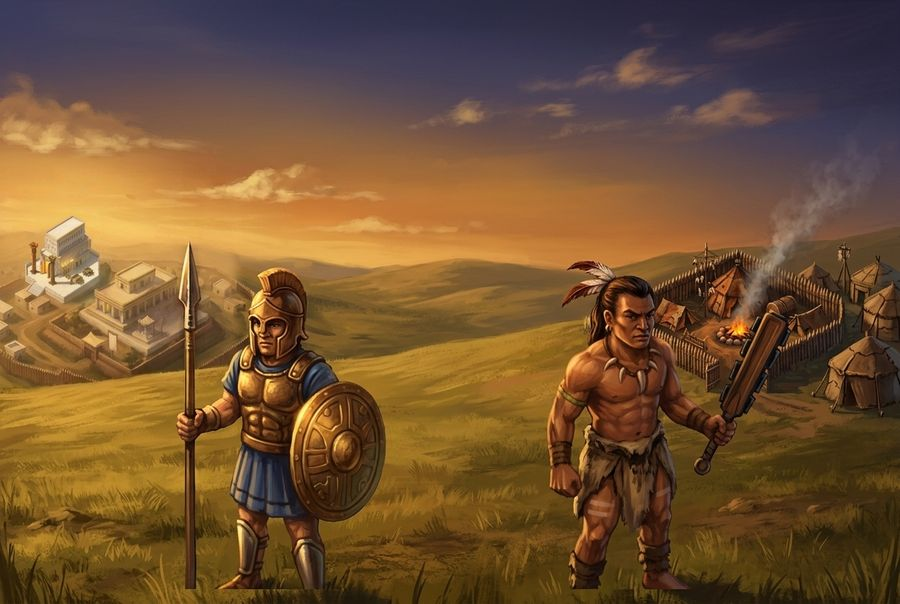
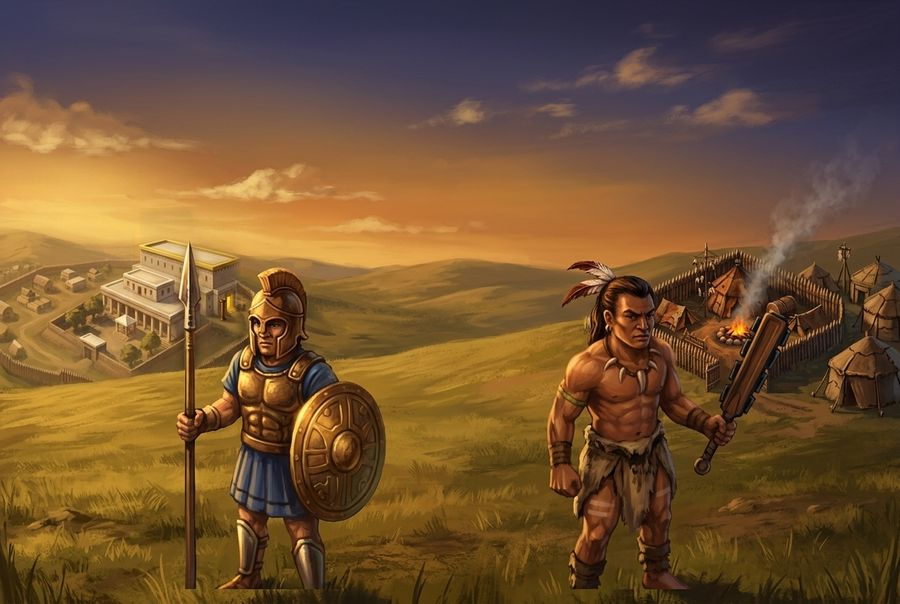
Title of Liberty: the city in the three opening paintings painted fresh
The pasted-in palace and temple still looked like game pieces stuck on a
painting. Now, from the original paintings, Gemini paints the palace and
Solomon's temple (a lower porch, two bronze pillars, no tower) from a
written description in each painting's own style, light and angle, with
nothing pasted in. The opening painting's city was painted on its own,
enlarged, and shrunk back, since the whole picture made Gemini zoom in.
Only the city is taken from Gemini's picture, its colour drift taken back
out; Moroni, the soldiers, the plates and the two warriors are unchanged.

Claude-Session: https://claude.ai/code/session_01Q4ES8mgC6R6KD4i9kHrmBw

Changed region(s): [[0.0, 0.3576, 0.28, 0.6556]]

diff --git a/liberty/art/requests/023-temple-no-tower.md b/liberty/art/requests/023-temple-no-tower.md
@@ -1,7 +1,7 @@
 # 023 · The temple without the tower: Solomon's porch and two great pillars
 
 **Status: done.** Made with Gemini through Blake's n8n backup (executions
-13488–13496, nine billed to the Merit3D Gemini account; 13486–13487 were
+13488–13501, fourteen billed to the Merit3D Gemini account; 13486–13487 were
 turned away before Gemini because their reference was a JPEG, and the
 workflow only takes PNGs).
 
@@ -15,17 +15,23 @@ workflow only takes PNGs).
   changed). Cut out, de-spilled at the outline only, scaled to 150 px a
   square of plot (4 × 4), with the soft cast shadow; button picture made
   with `mkcameo.py`; the lampstand's seven flames moved to its new lamps.
-- **The three paintings.** In each, the old tower was painted out by
-  blending the sky or hills on either side across it, and the new temple was
-  pasted on the same court. The first pass (13491–13493) asked Gemini to set
-  it on the ground in the painting's light; it redrew the temple bigger and
-  different in the opening painting and the Story tile, so the second
-  (13494–13496) asked only to blend it in: same size, same outline, same
-  design. Only the box around the temple is taken from Gemini's picture,
-  with Gemini's slight drift in the sky's colour measured outside the temple
-  and taken back out, so the box leaves no seam. In the Free tile the temple
-  was warmed a little toward the evening haze (22%) so it doesn't stand out
-  bright white.
+- **The three paintings, painted fresh.** A first try pasted the new temple
+  into the paintings and had Gemini blend it (13491–13496). Blake: "The
+  temple in the background with the other building looks so bad": both
+  buildings still looked like game pieces stuck on a painting. So the city
+  was repainted instead, from the original paintings of request 019: Gemini
+  replaced the old hall with the palace and the old tower with Solomon's
+  temple from a written description, in each painting's own style, light and
+  angle, with nothing pasted in (13497–13501). The Story tile and the Free
+  tile came right first time. In the opening painting Gemini zoomed in and
+  filled the city with one giant temple, so its city was cut out, enlarged,
+  painted on its own twice (13500, 13501) and shrunk back; the first was
+  used. In every painting only the city is taken from Gemini's picture, with
+  its slight drift in colour measured outside the city and taken back out,
+  so no edge shows; Moroni, the soldiers, the plates, the two warriors and
+  the spear are the paintings of request 019, pixel for pixel. The painted
+  temples follow the game's design (a long house, a lower porch with gold
+  doors, two bronze pillars, no tower) but are painted, not copied.
 - **On a phone** the opening painting's crop moved to 66% across, so the
   porch, the pillars and the glowing doors show.
 

diff --git a/liberty/art/requests/022-paintings-new-city.md b/liberty/art/requests/022-paintings-new-city.md
@@ -1,6 +1,6 @@
 # 022 · The opening paintings: the new palace and the gold temple in the city
 
-**The temple in these paintings was redone in request 023,** without the tower, to match the game's new temple.
+**Replaced in request 023:** Blake found the pasted-in buildings looked bad, so the city in all three paintings was painted fresh, with the palace and Solomon's temple without the tower.
 
 **Status: done.** Made with Gemini through Blake's n8n backup (executions
 13480–13485, six billed to the Merit3D Gemini account). Each painting was
